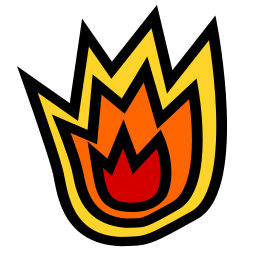
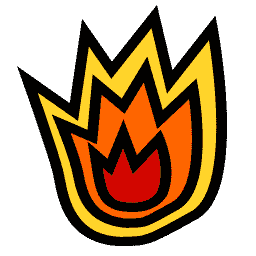
Optimised some images

diff --git a/src/posts/hackernews-clone-prism-rust.md b/src/posts/hackernews-clone-prism-rust.md
@@ -2,7 +2,7 @@
 layout: post.njk
 title: Hackernews Clone with Prism & Rust
 description: Building a super fast universally rendered Hackernews Clone using Prism, Rust and Actix-Web. Featuring JIT hydration
-image: /media/hackernews_banner.png
+image: /media/hackernews_banner.jpg
 date: 2020-11-10
 tags: posts
 ---
